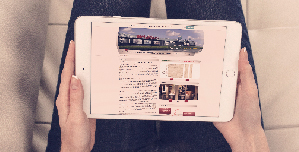
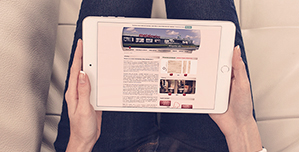
Add view for project show

diff --git a/app/assets/stylesheets/projects.css.scss b/app/assets/stylesheets/projects.css.scss
@@ -1,4 +1,5 @@
 @import 'variables';
+@import 'mixins';
 
 body.projects {
   .container.projects {
@@ -37,5 +38,76 @@ body.projects {
 
   .footer {
     margin-top: 0;
+  }
+}
+
+@media(min-width: 768px) {
+  body.project {
+    .logo img {
+      width: 450px;
+    }
+
+    .images {
+      margin-top: 150px;
+
+      img {
+        width: 600px;
+      }
+    }
+  }
+}
+
+@media(max-width: 768px) {
+  body.project {
+    .logo img {
+      width: 150px;
+    }
+
+    .images {
+      margin-top: 50px;
+
+      img {
+        width: 300px;
+      }
+    }
+  }
+}
+
+body.project {
+  .header-img {
+    height: 700px;
+    margin-top: -20px;
+    @include cover-image('', no-repeat center top);
+
+    .logo {
+      top: 500px;
+    }
+  }
+
+  a {
+    color: $red-background-color;
+  }
+
+  .images {
+    img {
+      margin: 30px auto;
+      display: block;
+
+      &:first-child {
+        margin-bottom: 60px;
+      }
+    }
+  }
+
+  .logo {
+    position: relative;
+    text-align: center;
+
+    img {
+      display: block;
+      margin-left: auto;
+      margin-right: auto;
+      margin-bottom: 20px;
+    }
   }
 }
